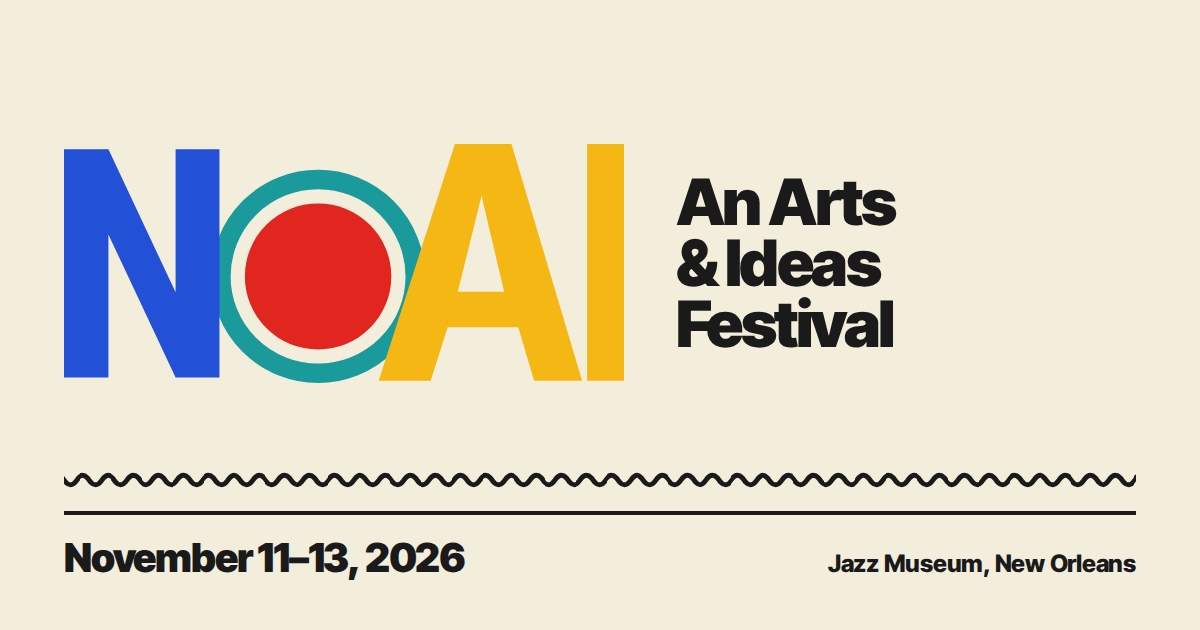
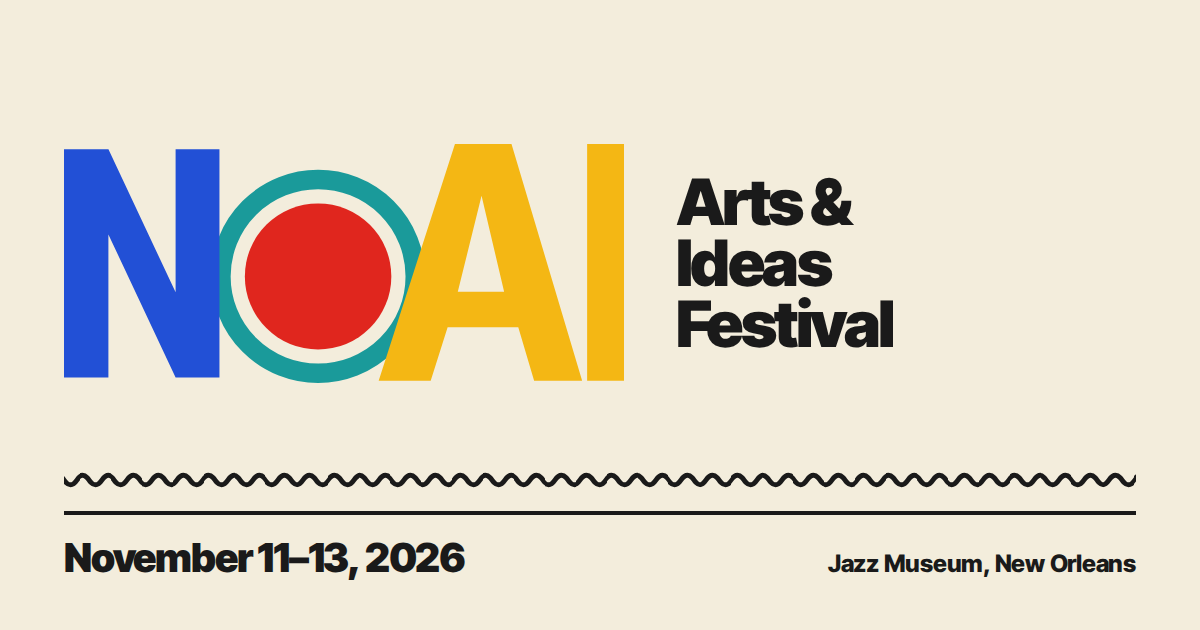
Drop "An" from the festival name; add squiggle rows to the header
The name now reads "Arts & Ideas Festival" / "NOAI: Arts & Ideas
Festival" everywhere: page titles and og/twitter titles (SITE_TITLE),
og:site_name, descriptions, the header, the Register sidebar, the
thank-you copy, the presentation share cards, and the re-rendered
og-noai.png.

The header's open space between the title and the actions now holds two
rows of the logo's squiggle (ink over red), sized to the logo, wiping in
with the logo's once-per-visit intro. Hidden at tablet widths where the
title leaves only a sliver.

Claude-Session: https://claude.ai/code/session_01SLJwsXFuRkrAZ1TWjGP3J4

Changed region(s): [[0.555, 0.2714, 0.7708, 0.4524]]

diff --git a/src/styles/app.css b/src/styles/app.css
@@ -218,10 +218,22 @@ main:focus { outline: none; }
   display: grid;
   grid-template-columns: auto 1fr auto;
   grid-template-areas:
-    "logo . actions"
+    "logo wiggles actions"
     "text text text";
   align-items: center;
   gap: 10px 16px;
+}
+/* Two rows of squiggles - ink over red - sized to the logo's height and
+   stretching across whatever room the title leaves. The mask tile is one
+   row tall; the background gradient colors each row. */
+.header-wiggles {
+  grid-area: wiggles;
+  align-self: center;
+  min-width: 0;
+  height: 40px;
+  background: linear-gradient(to bottom, var(--ink) 0 50%, var(--red) 50% 100%);
+  -webkit-mask: var(--squiggle-field-mask) repeat left top / 18px 20px;
+          mask: var(--squiggle-field-mask) repeat left top / 18px 20px;
 }
 .header-brand { display: contents; }
 .header-logo-link { grid-area: logo; display: block; line-height: 0; }
@@ -231,11 +243,21 @@ main:focus { outline: none; }
 @media (min-width: 720px) {
   .header { padding: 18px 0; }
   .header-top {
-    grid-template-columns: auto 1fr auto;
-    grid-template-areas: "logo text actions";
+    grid-template-columns: auto auto minmax(0, 1fr) auto;
+    grid-template-areas: "logo text wiggles actions";
     gap: 20px;
   }
   .header-logo { height: 52px; }
+  .header-wiggles {
+    height: 52px;
+    -webkit-mask-size: 23px 26px;
+            mask-size: 23px 26px;
+  }
+}
+/* Tablet widths: the title leaves only a sliver - skip the wiggles rather
+   than show a stub. */
+@media (min-width: 720px) and (max-width: 939px) {
+  .header-wiggles { display: none; }
   .header-text { padding-left: 20px; border-left: var(--rule) solid var(--ink); }
 }
 .header .header-title {
@@ -1929,6 +1951,9 @@ a.sponsor-logo:hover img { filter: none; }
   @keyframes logo-slide-in { from { transform: translateX(-40%); opacity: 0; } }
   @keyframes logo-pop { from { transform: scale(0.2); opacity: 0; } }
   @keyframes logo-rise { from { transform: translateY(45%); opacity: 0; } }
+  /* ...and the header's squiggle rows wipe in after it. */
+  .logo-intro .header-wiggles { animation: wiggles-in 0.8s cubic-bezier(0.2, 0.8, 0.2, 1) 0.35s both; }
+  @keyframes wiggles-in { from { clip-path: inset(0 100% 0 0); } }
 
   /* Hovering the logo: the red disc rolls around inside its ring, like an
      eye looking about. (Units are the logo's own SVG units.) */

diff --git a/src/components/SiteHeader.jsx b/src/components/SiteHeader.jsx
@@ -41,7 +41,7 @@ export default function SiteHeader({
               >
                 {/* The logo beside it is aria-hidden, so its name is
                     spoken here instead. */}
-                <span className="sr-only">NOAI: </span>An Arts &amp; Ideas Festival
+                <span className="sr-only">NOAI: </span>Arts &amp; Ideas Festival
               </a>
             </TitleTag>
             <div className="subtitle">
@@ -52,6 +52,9 @@ export default function SiteHeader({
             </div>
           </div>
         </div>
+        {/* Decorative rows of the logo's squiggle, filling the header's
+            open space between the title and the actions. */}
+        <div className="header-wiggles" aria-hidden="true" />
         <div className="header-actions">
           {current !== 'register' && (
             <a className="btn-primary" href="/register/">
